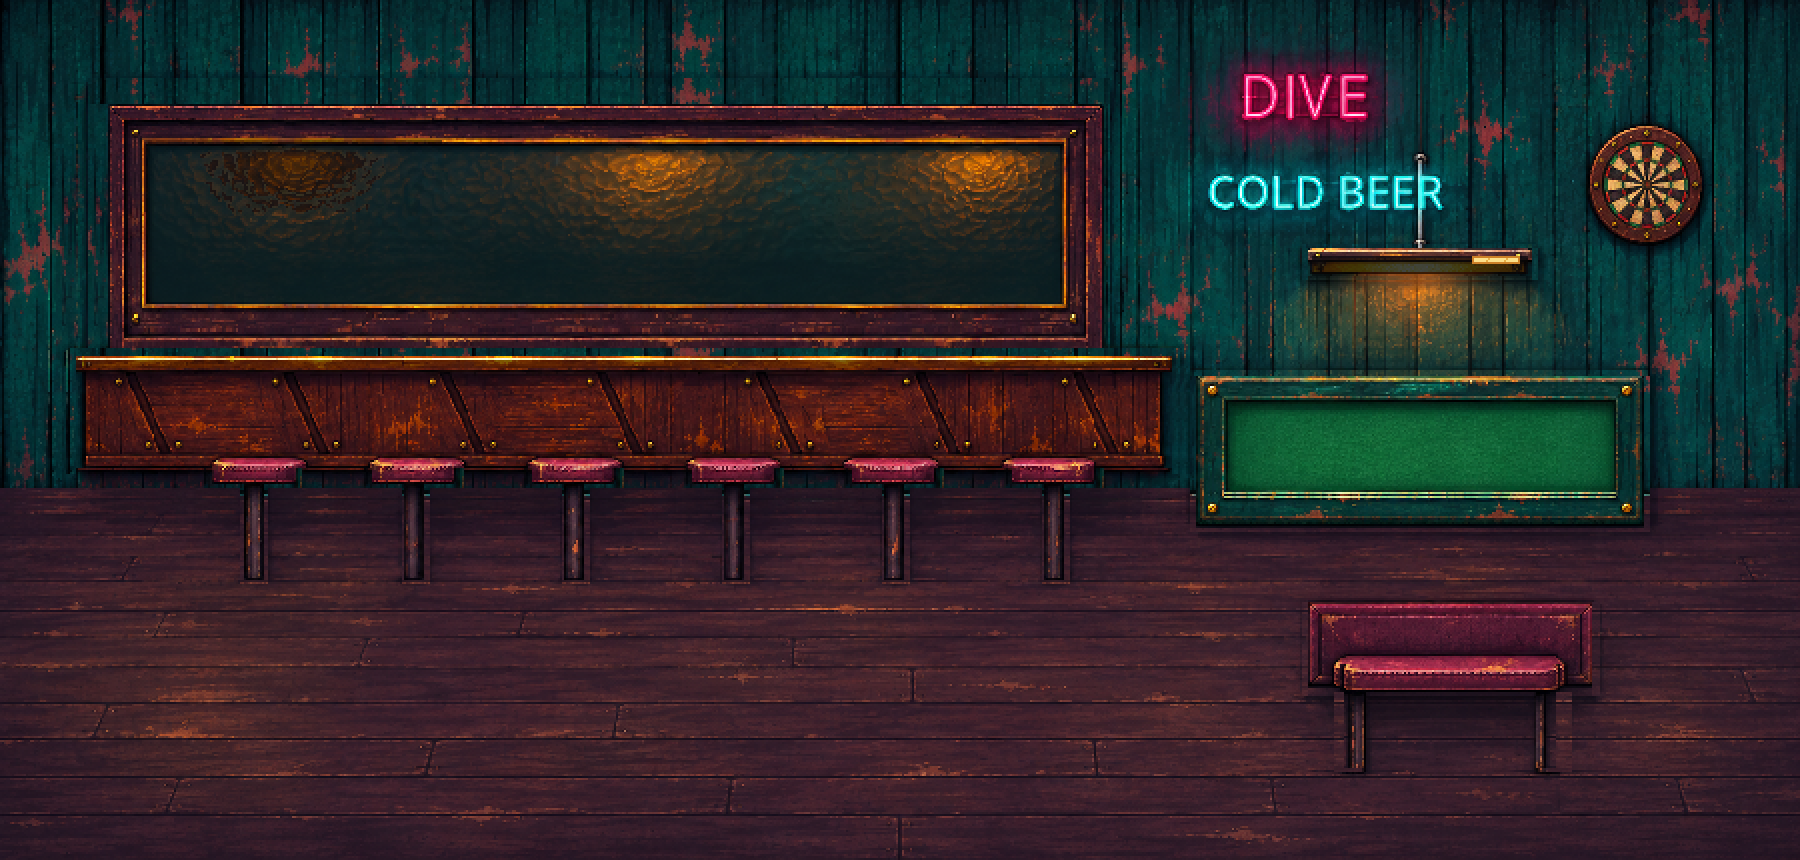
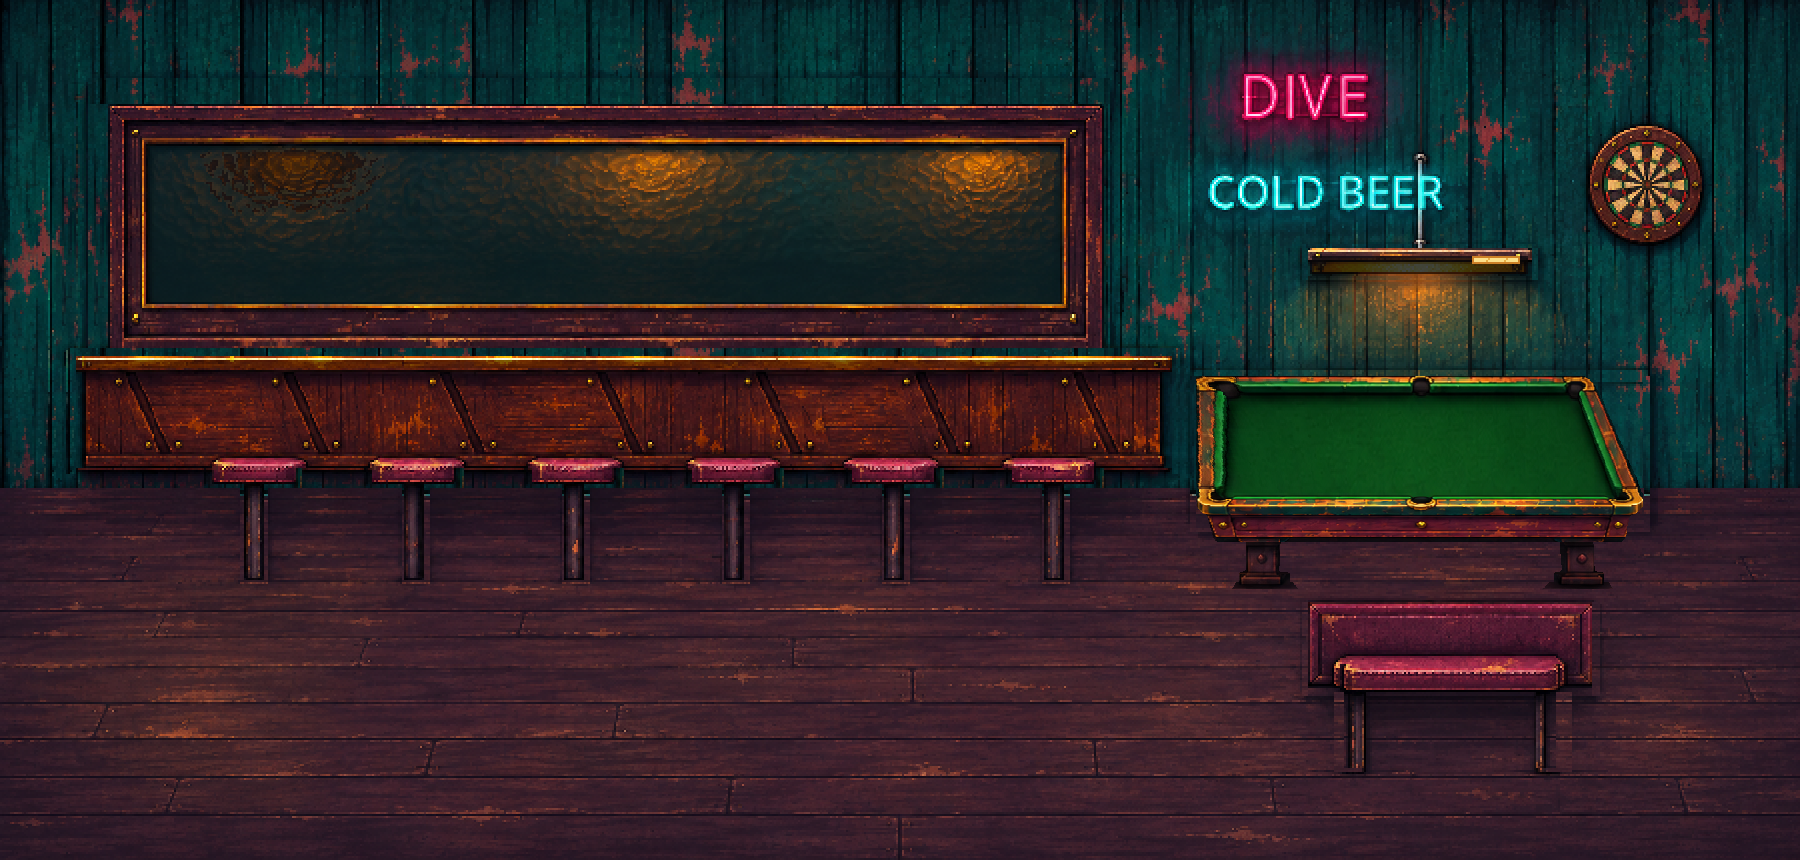
Ground Bar pool table and preserve live object clearance

Changed region(s): [[0.6533, 0.4233, 0.9333, 0.6953]]

diff --git a/docs/plans/0.6.1_stability_release_plan.md b/docs/plans/0.6.1_stability_release_plan.md
@@ -644,8 +644,8 @@ Acceptance subitems keep their parent IDs; checking a subitem never closes its u
 | BTH-ENVART-001-PHASE-06 | Loading memory and size | BTH-ENVART-001 | Build layered environment art renderer | Open |Implemented on feature branch; local proof passed; NEXT pending merge| 086d94894610835ac18cf3080dd99dc7f95becee | Bounded async residency, travel preparation152, loading36, exact fallback20, Smoke7 IDs zero; owned QA jobs closed. docs/testing/BTH-ENVART-001_phase6_2026-11-13.md |
 | BTH-ENVART-001-PHASE-07 | Authoring reload and documentation | BTH-ENVART-001 | Build layered environment art renderer | Open |Implemented on feature branch; authoring proof passed; NEXT pending merge| 0f07792b0628ae81c2401270a5c24086cbbd8236 | Native F6 reload14, loading35, exact fallback20, Smoke7 IDs zero; complete artist contract guide. docs/testing/BTH-ENVART-001_phase7_2026-11-13.md |
 | BTH-ENVART-001-PHASE-08 | All20 room art delivery | BTH-ENVART-001 | Current owner-requested environment art rollout | Open | 5 of20 fully Web-delivered; Pawn/Jazz/Public artifact-published/live blocked; hidden authoring active | 0c9eeec1202ed9fe4e56bfc1fce8bea2e2daae1c, 975a107d148433a5bc702dcc8e469523a5d02869, c5d5d17f691a010ac3173ac2a8c42232777081e5, 182ae255d04bd1fbd81e1542a0d153475cfb1e6a, 173b235da9171a5369894bdfb5e9f901d009e018, 9ac963f185afbc5c54c604e5f68e8111f598d997, ab0b49deeab019deac7ef30b79b17f86ffbc521d; d4beeb651403135ad4fa5f6fbf989af0d43478b6; 74c85e44577b34eaf7e9c1f857e62b2c999c1fbc | Use a qualified supported isolated browser surface for missing live checks; preserve native/artifact partial scope and continue the sequential campaign without bypassing browser restrictions. |
-| BTH-ENV-SPATIAL-001 | Audit and correct all-room spatial support and seams | - | Repair environment art | Open | ACTIVE_BAR_V4_QUALIFICATION | - | V4 clears8context still review,1017nativechecks,17motion35checks and no-pointer liveness. Complete58sequence/composite/replay/placement checks and independent recorded-motion review, then integrate approved Bar PNG and verify TEST delivery. |
-| BTH-ENV-SPATIAL-BAR-001 | Correct Bar pool-table support and perspective | BTH-ENV-SPATIAL-001 | Repair environment art | Open | ACTIVE_BAR_V4_QUALIFICATION | - | V4 clears8context still review,1017nativechecks,17motion35checks and no-pointer liveness. Complete58sequence/composite/replay/placement checks and independent recorded-motion review, then integrate approved Bar PNG and verify TEST delivery. |
+| BTH-ENV-SPATIAL-001 | Audit and correct all-room spatial support and seams | - | Repair environment art | Open | ACTIVE_BAR_BUILD_AND_NATIVE_QUALIFICATION | - | Exact V4 Bar background has independent art approval and is integrated on the art branch. Finish remaining native suite and prepare its exact guarded TEST build; publish after technical and build-identity gates pass. |
+| BTH-ENV-SPATIAL-BAR-001 | Correct Bar pool-table support and perspective | BTH-ENV-SPATIAL-001 | Repair environment art | Open | ACTIVE_BAR_BUILD_AND_NATIVE_QUALIFICATION | - | Exact V4 Bar background has independent art approval and is integrated on the art branch. Finish remaining native suite and prepare its exact guarded TEST build; publish after technical and build-identity gates pass. |
 | BTH-TEST-TRAVEL-PERF-001 | Apply shared travel performance fix to TEST | - | find_next_game_bugs | Open | TEST_ARTIFACT_VERIFIED_BROWSER_PENDING | 0ef525e012df485bc3312e0d2ea89e3aa05b4d55 | TEST exact artifact/HTTPS verified; NEXT retained; browser performance unverified. |
 | BTH-ENV-SPATIAL-GRAND-001 | Grand public spatial and seam review | BTH-ENV-SPATIAL-001 | Repair environment art | Open | AUDIT_RECORDED_REPAIR_PENDING | - | Retain room finding in spatial direction; continue after existing Bar trial ownership/output is resolved. Source snapshot review does not close motion/scenario or TEST acceptance. |
 | BTH-ENV-SPATIAL-HL-001 | Grand high-limit spatial and seam review | BTH-ENV-SPATIAL-001 | Repair environment art | Open | AUDIT_RECORDED_REPAIR_PENDING | - | Retain room finding in spatial direction; continue after existing Bar trial ownership/output is resolved. Source snapshot review does not close motion/scenario or TEST acceptance. |
